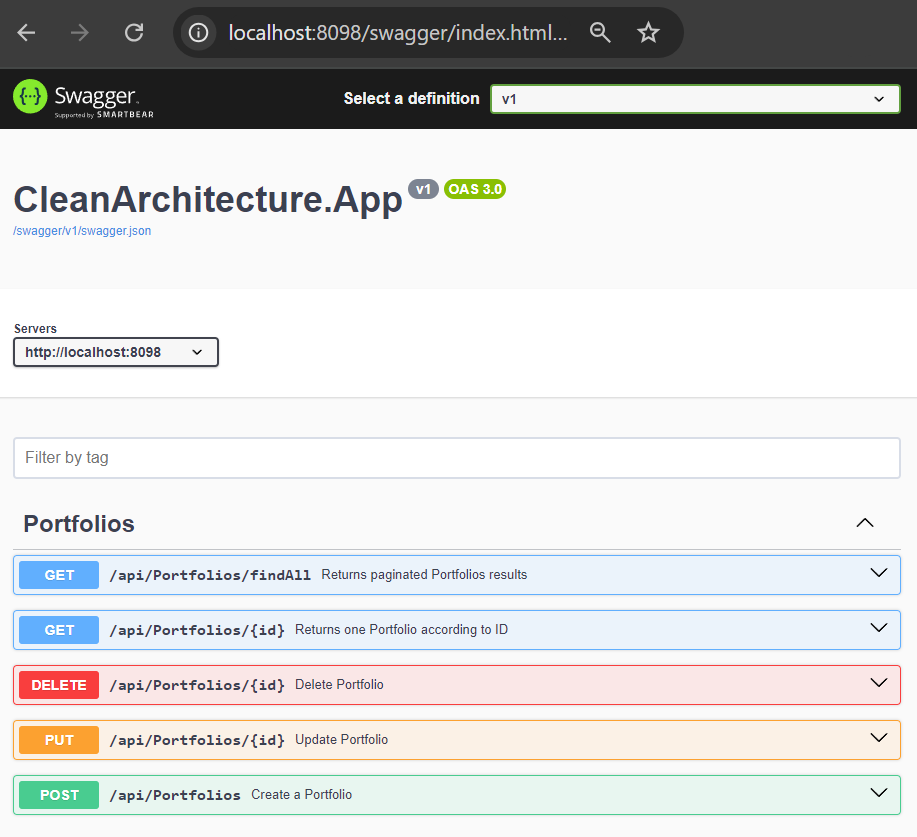
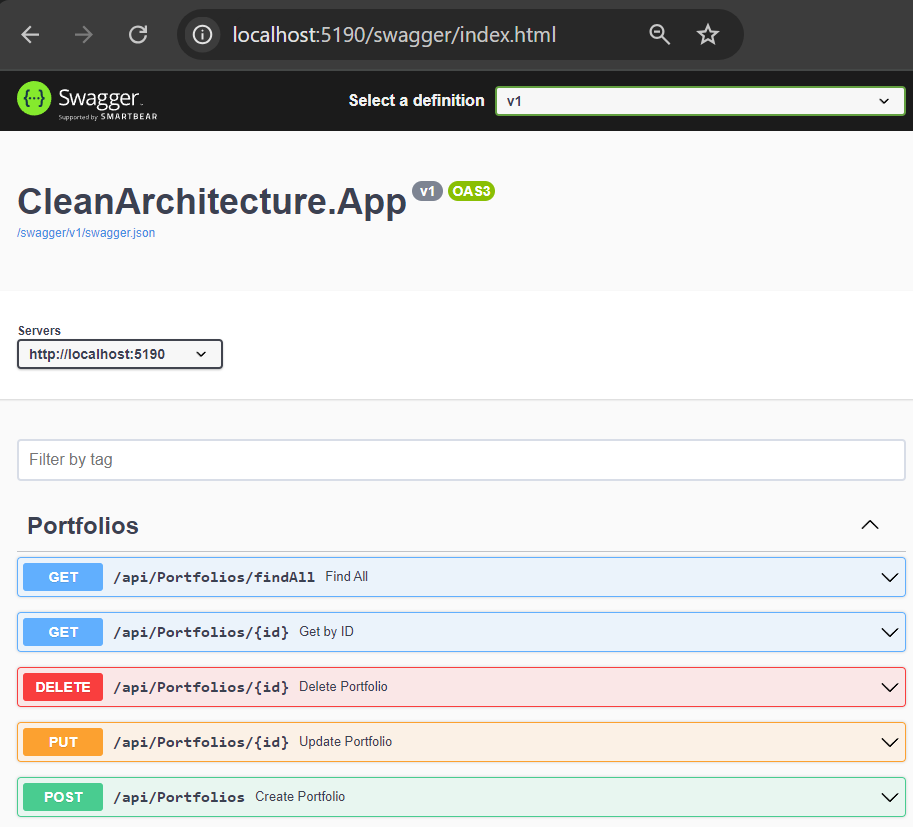
GRAL: Updated a README.md white space. Change the swagger doc and update swagger_oas3.png

diff --git a/src/CleanArchitecture.Presentation/Controllers/PortfoliosController.cs b/src/CleanArchitecture.Presentation/Controllers/PortfoliosController.cs
@@ -21,10 +21,15 @@ namespace CleanArchitecture.Presentation.Controllers
         private readonly IMediator mediator = mediator;
 
         /// <summary>
-        /// Returns paginated Portfolios results
+        /// Find All
         /// </summary>
         /// <remarks>
-        /// 
+        /// Returns paginated Portfolios results. 
+        /// The results are sorted by the field and direction specified in the sort parameter. 
+        /// The offset parameter specifies the starting point to return results. 
+        /// The limit parameter specifies the maximum number of results to return. 
+        /// The default values are offset=0 and limit=200.
+        ///
         /// Sample request:
         ///
         ///     GET /api/portfolios/findAll?sort=id,desc&amp;offset=0&amp;limit=200
@@ -54,11 +59,13 @@ namespace CleanArchitecture.Presentation.Controllers
         }
 
         /// <summary>
-        /// Returns one Portfolio according to ID
+        /// Get by ID
         /// </summary>
         /// <param name="id" example="1">Identifier from Portfolio</param>
         /// <returns>Information result for one Portfolio</returns>
         /// <remarks>
+        /// Returns one Portfolio according to ID.
+        /// 
         /// Sample request:
         ///
         ///     GET /api/portfolios/1
@@ -83,10 +90,11 @@ namespace CleanArchitecture.Presentation.Controllers
         }
 
         /// <summary>
-        /// Create a Portfolio
+        /// Create Portfolio
         /// </summary>
         /// <returns>Information resulting from the creation portfolio</returns>
         /// <remarks>
+        /// Create a new Portfolio.
         /// 
         /// Sample request:
         ///
@@ -116,6 +124,7 @@ namespace CleanArchitecture.Presentation.Controllers
         /// Delete Portfolio 
         /// </summary>
         /// <remarks>
+        /// Delete a Portfolio by ID.
         ///
         /// Sample request: 
         /// 
@@ -142,6 +151,7 @@ namespace CleanArchitecture.Presentation.Controllers
         /// Update Portfolio
         /// </summary>
         /// <remarks>
+        /// Update a Portfolio by ID.
         ///
         /// Sample request: 
         /// 

diff --git a/README.md b/README.md
@@ -52,6 +52,7 @@ docker start CleanArchitectureAPI
 Al no utilizar docker deberemos crear la base de datos y ajustar las configuraciones para que la API pueda acceder a la misma.
 
 __Crear la base de datos__
+
 Ejecutar el script "db-init.sql" que se encuentra en el raiz, para crear la base de datos en conjunto con el usuario de login. 
 
 __Ajustar la configuración__
